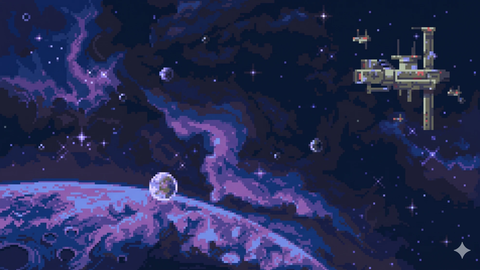
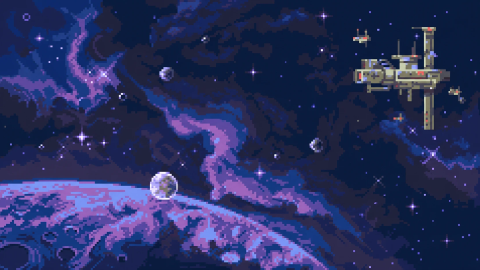
Cover: rebuild from the owner's clean image (no watermark)
Claude-Session: https://claude.ai/code/session_01ArW5upgcqAsu2z4fNQEDEZ

diff --git a/SUBMISSION.md b/SUBMISSION.md
@@ -69,7 +69,7 @@ Other data: none. One card cites an Astronomy magazine article about the Lunar R
 
 AI (Claude by Anthropic) helped with planning, code, text, and the pixel art: the game's images are generated by a script written with AI. The start-screen background picture was made with an AI image generator. I directed the project and reviewed every fact against NASA sources.
 
-**[YOU]** Name the tool you used for the start-screen picture (`assets/cover.png`). Its corner mark looks like Google Gemini's watermark; if so, write "made with Google Gemini". If you made it another way, change that sentence.
+**[YOU]** Name the tool you used to make the start-screen picture (`assets/cover.png`), e.g. "made with <tool name>". If you didn't make it with an AI image generator, change that sentence to say where it came from.
 
 **[YOU]** The line above says you reviewed every fact against NASA sources. That will only be true once you have clicked through the source links yourself. Do that, or soften the wording.
 
